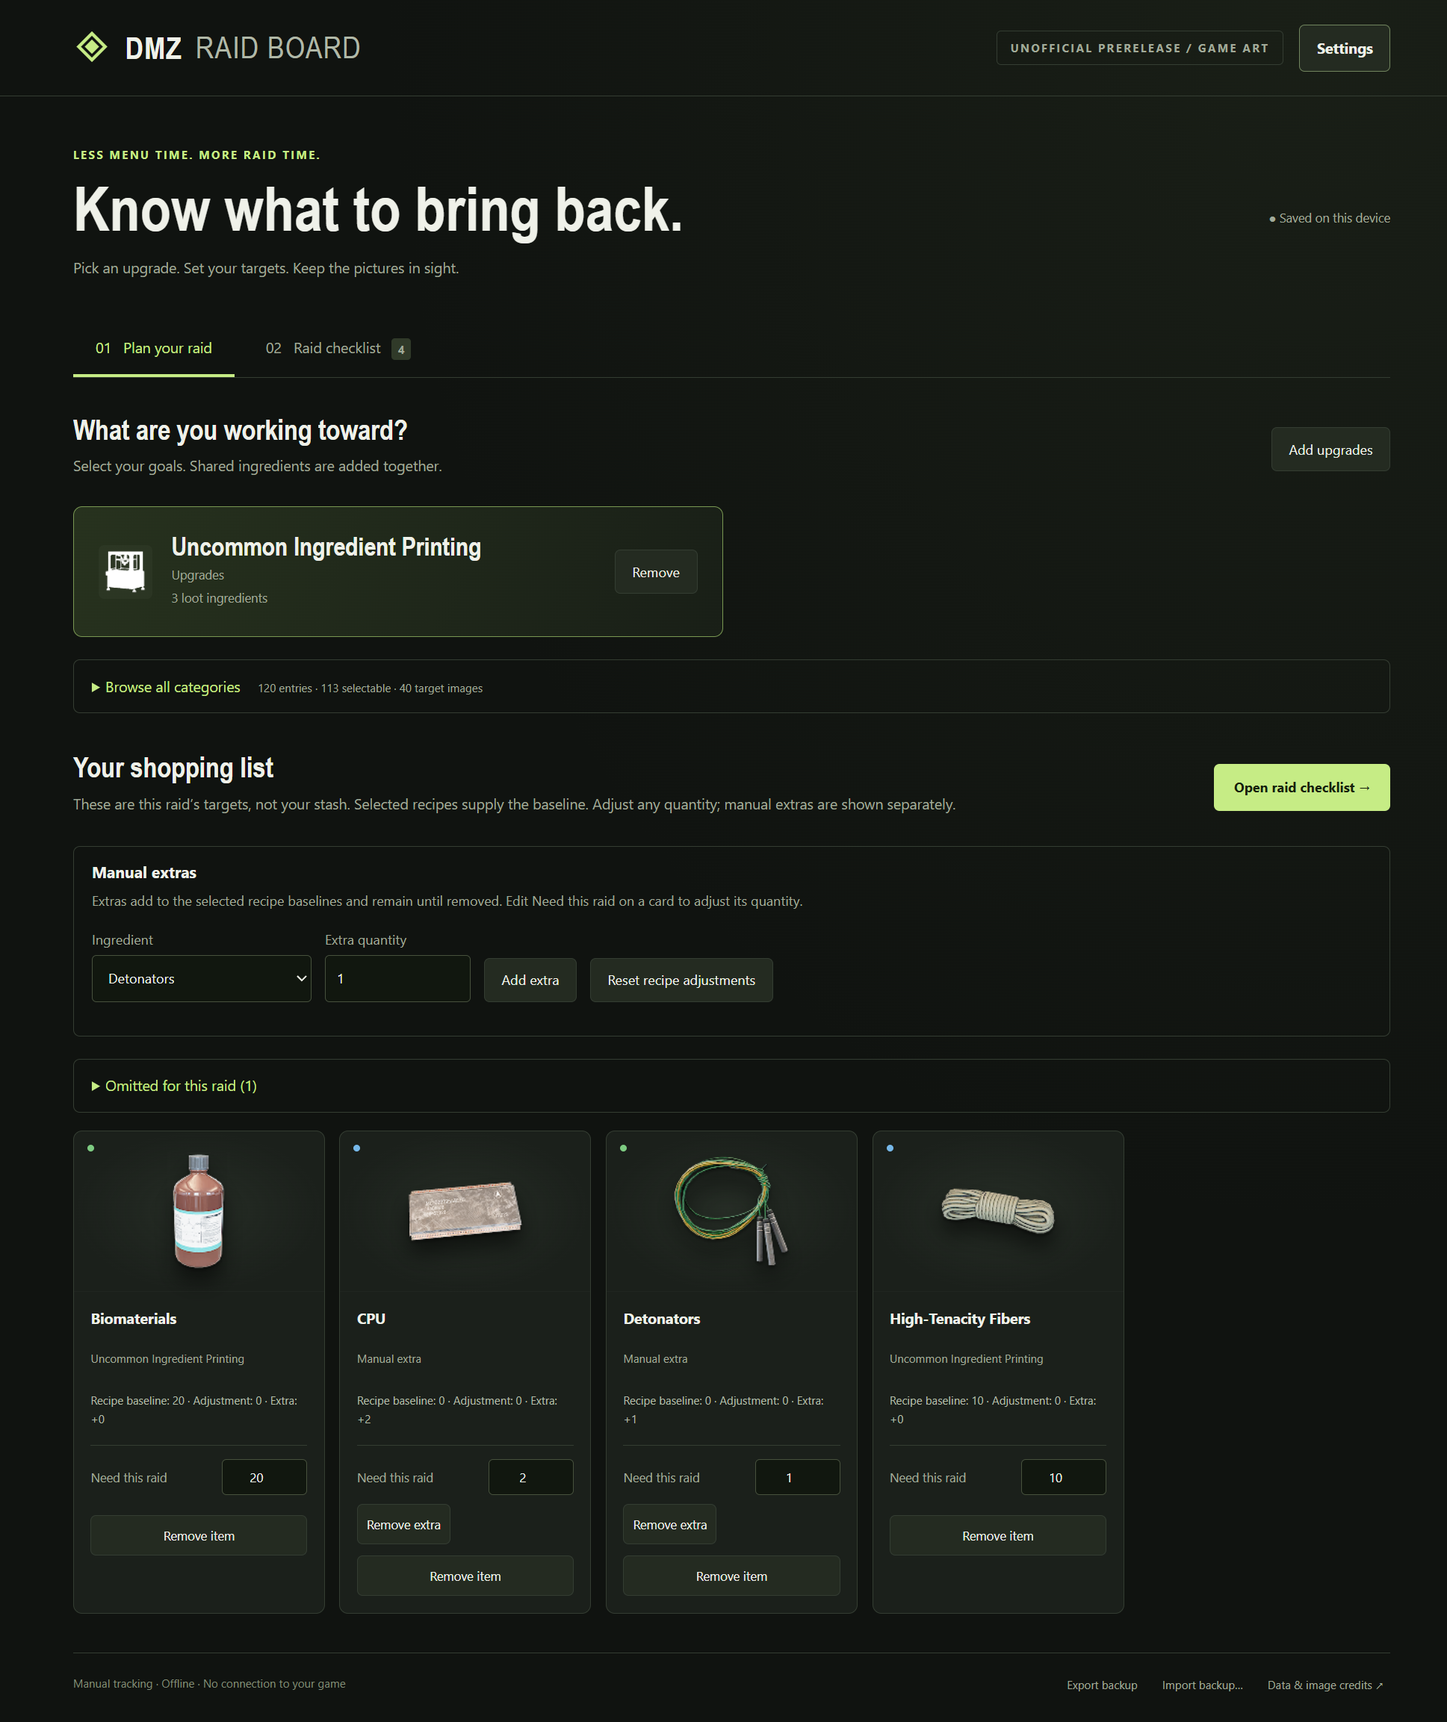
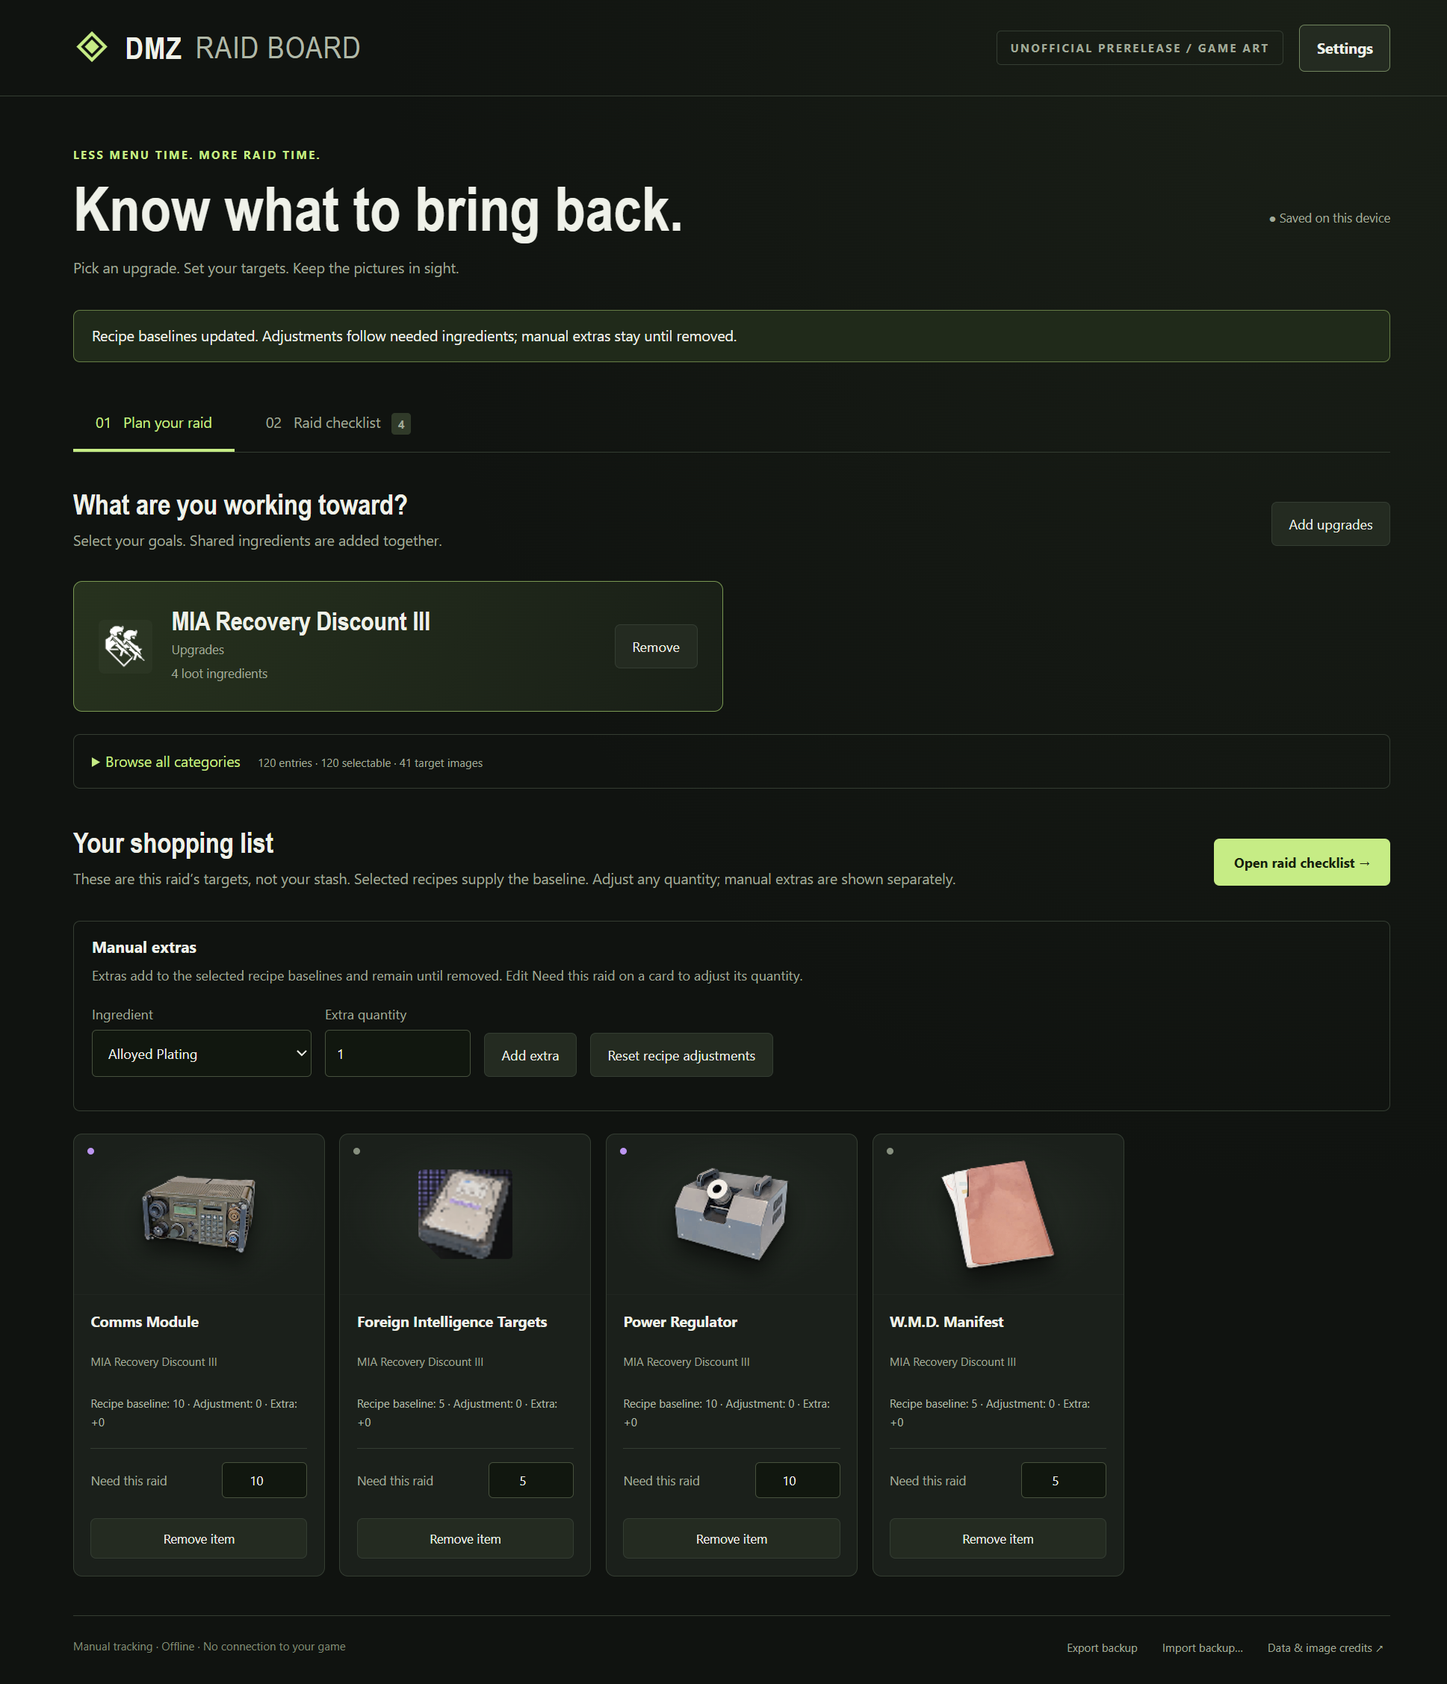
Confirm recipe requirements and add Foreign Intelligence artwork for 0.1.8

diff --git a/src/renderer/index.html b/src/renderer/index.html
@@ -18,7 +18,7 @@
    <div id="goalEmpty" class="emptyGoals">Choose an upgrade to start.</div>
    <div class="upgrades" id="upgrades"></div>
    <details id="browse" class="browse"><summary>Browse all categories <span class="coverage" id="coverage"></span></summary>
-    <p>Catalog compared <time datetime="2026-10-25">25 Oct 2026</time>; owner cards updated 26 Oct 2026. Item requirements are community reported; Owner-verified entries show their individual dates. Unconfirmed recipes cannot be selected. Image coverage is separate; missing images are labeled.</p>
+    <p>Catalog compared <time datetime="2026-10-25">25 Oct 2026</time>; owner and selected web references updated 29 Oct 2026. Item requirements are community reported; Owner-verified entries show their individual dates. Unconfirmed recipes cannot be selected. Image coverage is separate; missing images are labeled.</p>
     <div class="filters"><label>Category <select id="category" aria-label="Category"></select></label><label class="search">Find a recipe or ingredient <input id="search" type="search" placeholder="Search this category" aria-label="Find a recipe or ingredient"></label></div>
     <p id="catalogStatus" class="micro"></p><div id="catalogList" class="catalogList"></div>
    </details>
@@ -45,7 +45,7 @@
    <section aria-labelledby="clearHeading"><h3 id="clearHeading">Fresh list</h3><p>Clear all goals, extras and raid progress. A recovery copy is saved first; your theme is preserved.</p><div class="settingsActions"><button id="settingsClear" class="secondary">Clear entire list</button><button id="settingsRestoreClear" class="secondary" disabled>Restore cleared list</button></div></section>
    <input id="importFile" type="file" accept=".json,application/json" hidden>
   </dialog>
-  <dialog id="sources" aria-labelledby="sourcesHeading"><button id="closeSources" class="secondary">Close ×</button><h2 id="sourcesHeading">About this prototype</h2><p>The original two-upgrade picture-first sample is preserved. The catalog includes the 95 recipes in two compared public references and 25 reported upgrade tiers; full in-game completeness is not claimed. Requirements were compared on 25 Oct 2026; check your current in-game card before planning.</p><p id="sourceCoverage"></p><p>Seven entries remain disabled for unresolved requirements: Radiation Blockers, DDOS, Stash Item IV, Stash Weapon III, MIA II–IV and Vendor I–II. Permanent tiers count once; one tier per family can be planned. Earlier tiers must already be owned. Only explicitly selected ingredient printing offsets matching outputs; no automatic recursive expansion or unlock is assumed.</p><p>Artwork is optional and is never downloaded by the app. The private starter supplied CPU, Detonators, Nylon Cloth, Power Regulator and Reactive Metals images via DMZ Codex. Game art belongs to Activision/respective rights holders; no public redistribution license is asserted. The source omits the item-image collection; documentation previews may contain third-party game art. Military Composites uses a non-destructive crop of an owner screenshot; Foreign Intelligence Targets picture remains pending. Missing pictures use neutral labeled placeholders.</p><div class="sourceRefs"><strong>Source references (copy into your browser)</strong><p>https://dmzcodex.com/upgrades/<br>https://codcentral.net/blog/mw4-dmz-3d-printer-recipes/</p></div><p>DMZHub and DMZTracker were compared for category scope only; their collections were not copied. See CATALOG.md in the source project for provenance. This app is unofficial and not affiliated with or endorsed by Activision, Infinity Ward or DMZ Codex. Artwork remains outside the MIT code license; attribution does not establish permission or grant downstream reuse rights. See the bundled THIRD-PARTY-ARTWORK.md and ARTWORK-SOURCES.json.</p></dialog>
+  <dialog id="sources" aria-labelledby="sourcesHeading"><button id="closeSources" class="secondary">Close ×</button><h2 id="sourcesHeading">About this prototype</h2><p>The original two-upgrade picture-first sample is preserved. The catalog includes the 95 recipes in two compared public references and 25 reported upgrade tiers; full in-game completeness is not claimed. Requirements were compared on 25 Oct 2026; check your current in-game card before planning.</p><p id="sourceCoverage"></p><p>Entries still disabled for unresolved requirements: <span id="unconfirmedList"></span>. Community-reported selectable recipes are labeled and remain unconfirmed in game. Permanent tiers count once; one tier per family can be planned. Earlier tiers must already be owned. Only explicitly selected ingredient printing offsets matching outputs; no automatic recursive expansion or unlock is assumed.</p><p>Artwork is optional and is never downloaded by the app. The private starter supplied CPU, Detonators, Nylon Cloth, Power Regulator and Reactive Metals images via DMZ Codex. Game art belongs to Activision/respective rights holders; no public redistribution license is asserted. The source omits the item-image collection; documentation previews may contain third-party game art. Military Composites uses a non-destructive crop of an owner screenshot; Foreign Intelligence Targets also uses an icon-only crop of an owner gameplay screenshot. Missing pictures use neutral labeled placeholders.</p><div class="sourceRefs"><strong>Source references (copy into your browser)</strong><p>https://dmzcodex.com/upgrades/<br>https://codcentral.net/blog/mw4-dmz-3d-printer-recipes/</p></div><p>DMZHub and DMZTracker were compared for category scope only; their collections were not copied. See CATALOG.md in the source project for provenance. This app is unofficial and not affiliated with or endorsed by Activision, Infinity Ward or DMZ Codex. Artwork remains outside the MIT code license; attribution does not establish permission or grant downstream reuse rights. See the bundled THIRD-PARTY-ARTWORK.md and ARTWORK-SOURCES.json.</p></dialog>
   <dialog id="confirmDialog" aria-labelledby="confirmHeading"><h2 id="confirmHeading"></h2><p id="confirmBody"></p><div class="dialogActions"><button id="cancelAction" class="secondary" autofocus>Cancel</button><button id="confirmAction" class="primary">Confirm</button></div></dialog>
  </main>
  <script type="module" src="app.mjs"></script>

diff --git a/src/renderer/extras.css b/src/renderer/extras.css
@@ -34,3 +34,8 @@ progress{height:7px;border:0;flex:1;background:#30372a;min-width:70px;border-rad
    A modest 2x presentation excludes all text, counts, other items and the corner badge. */
 .art .military-composites-screenshot{width:100px;height:74px}
 .art .military-composites-screenshot img{position:absolute;display:block;width:1330px;height:1320px;max-width:none;max-height:none;left:-168px;top:-1132px;object-fit:fill;filter:none}
+
+/* Owner source remains unchanged762x701; show only its Foreign Intelligence notebook.
+   x98,y418,width42,height40, presented at a modest2x; no text/counts/other rows. */
+.art .foreign-intelligence-targets-screenshot{width:84px;height:80px;clip-path:polygon(0 0,100% 0,100% 100%,20px 100%,0 calc(100% - 20px))}
+.art .foreign-intelligence-targets-screenshot img{position:absolute;display:block;width:1524px;height:1402px;max-width:none;max-height:none;left:-196px;top:-836px;object-fit:fill;filter:none}

diff --git a/README.md b/README.md
@@ -6,7 +6,7 @@ This is an unofficial community prototype, not affiliated with Activision. The r
 
 ## Desktop downloads
 
-The artwork-inclusive prerelease contains third-party game imagery attributed to Activision/respective rights holders and sourced via DMZ Codex, plus an owner-provided gameplay screenshot. No affirmative reuse or redistribution license was established, and the app grants no downstream artwork rights. An artwork-free build remains available from source with `npm run package:public`. Extract the entire Windows x64 artwork-inclusive ZIP into a writable folder and run DMZ Raid Board.exe. Keep its accompanying files. The build is unsigned; no installation is required. Data is stored in the data folder beside the executable. Export/import a backup to move a board between folders.
+The artwork-inclusive prerelease contains third-party game imagery attributed to Activision/respective rights holders and sourced via DMZ Codex, plus owner-provided gameplay screenshots. No affirmative reuse or redistribution license was established, and the app grants no downstream artwork rights. An artwork-free build remains available from source with `npm run package:public`. Extract the entire Windows x64 artwork-inclusive ZIP into a writable folder and run DMZ Raid Board.exe. Keep its accompanying files. The build is unsigned; no installation is required. Data is stored in the data folder beside the executable. Export/import a backup to move a board between folders.
 
 The desktop builds target Windows x64 portable ZIP, macOS Apple Silicon app ZIP/DMG, and Linux x64 AppImage. The app runs as a desktop application; an external browser is not required. No Intel Mac package is produced for this version.
 
@@ -14,7 +14,7 @@ macOS builds are ad-hoc signed, without Developer ID signing or notarization. Na
 
 ## Artwork-inclusive app preview
 
-![Actual 0.1.6 app in its original theme, showing a synthetic Uncommon Printing plan](docs/app-default.png)
+![Actual app in its default theme, showing synthetic sample selections and counts](docs/app-default.png)
 
 Captured from the actual artwork-inclusive Windows artifact using a separate test profile. Counts are synthetic examples, not owner inventory. No desktop, account details, local paths or private runtime data are shown. Game artwork in this preview is third-party material; the notice above applies.
 
@@ -74,3 +74,16 @@ See [native packaging notes](PLATFORM-CANDIDATES.md) for automated checks, per-u
 ## 0.1.7 goal summary and artwork
 
 The goal summary contains selected goals only, with explicit Remove and Add upgrades controls. Manual extras stay visible. Omitted targets have a separate counted disclosure, collapsed by default. Version-2 board and backup semantics are unchanged. Military Composites now uses an unchanged owner screenshot with an icon-only CSS crop; surrounding recipe text and owned counts are excluded from display. See docs/local-0.1.7.md. The desktop prerelease targets Windows x64, Apple Silicon macOS and Linux x86_64. Back up before moving to a new portable folder.
+
+## 0.1.8 recipe update
+
+Vendor I is owner-confirmed and selectable. Four later upgrade tiers are selectable as explicitly community-reported item lists after dated web cross-checks; they are not confirmed in game. See the latest CATALOG.md section. DDOS and Radiation Blockers are now owner-confirmed too; all 120 catalog entries are selectable. Selectable does not mean every entry is owner-confirmed. Existing backups, themes, counts, omissions and selection behavior are unchanged. Export a backup before moving to a new portable folder. The desktop prerelease targets Windows x64, Apple Silicon and Linux x86_64.
+
+The approved candidate 2 is preserved. Publication builds retain its requirements and behavior; private owned-inventory observations are excluded from source metadata. Export a backup before updating.
+
+
+## 0.1.8 candidate3 - Foreign Intelligence Targets
+
+The owner-supplied MIA Recovery III screenshot is preserved unchanged and displayed through an icon-only CSS crop (x98,y418,width42,height40 at2x, with a small bottom-left presentation mask to exclude an adjacent rarity-marker fragment). Surrounding item rows, labels and owned counts are excluded from the displayed picture. Existing MIA III requirements remain W.M.D. Manifest5, Foreign Intelligence Targets5, Power Regulator10 and Comms Module10. No new image was downloaded from a website or generated. Offline image inventory is130 files; all41 current loot targets have mapped local art. All120 existing recipe/output cards have mapped image files, some shared between tiers; file presence is separate from exhaustive visual verification or full-game catalog completeness.
+
+Confidence remains9 owner-confirmed and111 web-reported entries;120 selectable does not mean120 owner-confirmed. Community reference tiers BankVII and Dog Tag CaseIII-IV are absent from this catalog and are not added in this image-only batch. Publication is handled separately from this catalog snapshot. All-platform builds must carry the same130-image payload; the earlier129-image public seed alone is insufficient.

diff --git a/CATALOG.md b/CATALOG.md
@@ -58,3 +58,22 @@ The new evidence makes MIA III selectable. The other four entries already had ma
 ## Local artwork update — 2026-10-27
 
 Military Composites now uses the owner-saved Epic Ingredient Printing screenshot, retained byte-identically and displayed through an icon-only CSS crop. Its requirement remains 5 in Epic Printing; the displayed owned counts are not requirements. The incorrect gray reference is retained unchanged but unused. This restores 40/41 target-image coverage; Foreign Intelligence Targets remains pending. Offline resource inventory is 129 files, including the retained unused reference. File inventory is separate from displayed image coverage.
+
+## 0.1.8 item-requirement review - 2026-10-29
+
+Vendor Item Upgrade I is owner-confirmed: Electronic Sensors 20, CPU 10, Printed Circuit Board 10, Prototype RF Module 2. These are required counts, not owned inventory. The prior reported amounts already matched. Its recorded effect unlocks additional vendor purchase options. No financial requirement is inferred.
+
+Stash Item IV (Gold Skull 5, Alloyed Plating 30, Experimental Compounds 10, Turned Components 30), Stash Weapon III (Gold Bar 5, Stabilized Reagents 30, Volatile Explosives 30, Nano-Structured Alloy 10), MIA IV (Sanctioned Assassination List 5, Ballistic Fabric 30, Nylon Laminate 30, Prototype RF Module 10), and Vendor II (Control Unit 20, High-Tenacity Fibers 10, Nylon Cloth 10, Nano-Structured Alloy 2) are selectable for loot planning with explicit community-reported / not confirmed in game labeling. Missing financial information no longer blocks a complete reported loot-item list. No zero financial requirement, in-game verification, prior-tier ownership or complete unlock knowledge is claimed.
+
+Exact family pages at https://dmzcodex.com/upgrades/ were rechecked on 2026-10-29, with factual item lists cross-checked against https://dmzmap.com/upgrades and https://detonated.com/which-items-should-you-keep-in-dmz-all-fob-upgrades-list/ (both dated 2026-10-25). These sources may share reports; agreement does not establish independent in-game confirmation. Individual records retain exact family URLs and check dates. Owner-confirmed values were preserved.
+
+Candidate 2 supersedes the initial candidate: 120 catalog entries are selectable, none disabled. Owner screenshots confirm DDOS Electronics 30 + Detonators 3 and Radiation Blockers Chemicals 30 + Biomaterials 3, superseding the earlier conflicting reports while retaining historical provenance. The four upper upgrades above remain community-reported, not owner-confirmed. No new images were downloaded; 129-resource inventory and Foreign Intelligence Targets picture gap are unchanged. Version-2 data and backups remain unchanged. The release data uses the approved candidate-2 requirements and confidence labels.
+
+Candidate 2 (2026-10-29) is preserved separately. Release packaging uses the same requirements and removes private owned-inventory observations from evidence metadata. Game-art inventory is unchanged.
+
+
+## 0.1.8 candidate3 - Foreign Intelligence Targets
+
+The owner-supplied MIA Recovery III screenshot is preserved unchanged and displayed through an icon-only CSS crop (x98,y418,width42,height40 at2x, with a small bottom-left presentation mask to exclude an adjacent rarity-marker fragment). Surrounding item rows, labels and owned counts are excluded from the displayed picture. Existing MIA III requirements remain W.M.D. Manifest5, Foreign Intelligence Targets5, Power Regulator10 and Comms Module10. No new image was downloaded from a website or generated. Offline image inventory is130 files; all41 current loot targets have mapped local art. All120 existing recipe/output cards have mapped image files, some shared between tiers; file presence is separate from exhaustive visual verification or full-game catalog completeness.
+
+Confidence remains9 owner-confirmed and111 web-reported entries;120 selectable does not mean120 owner-confirmed. Community reference tiers BankVII and Dog Tag CaseIII-IV are absent from this catalog and are not added in this image-only batch. Publication is handled separately from this catalog snapshot. All-platform builds must carry the same130-image payload; the earlier129-image public seed alone is insufficient.

diff --git a/THIRD-PARTY-ARTWORK.md b/THIRD-PARTY-ARTWORK.md
@@ -4,7 +4,7 @@ DMZ Raid Board is an unofficial community app. It is not affiliated with or endo
 
 Call of Duty, Modern Warfare and DMZ names, trademarks and game artwork belong to Activision and/or their respective rights holders. All rights to those third-party materials are reserved by their owners.
 
-The artwork-inclusive Windows prerelease bundles 129 image files: 127 source-attributed files from [DMZ Codex](https://dmzcodex.com/) item, recipe and upgrade pages, and two owner-supplied gameplay screenshots for Regional Combat Notes and Military Composites. The original screenshots are preserved; CSS presentation shows only the relevant item regions. The earlier incorrect Military Composites reference is retained as an unused source file. Five of the DMZ Codex-attributed files were supplied in the original starter bundle. Some item variants share a source image; file counts are not counts of unique game items or tiers. Foreign Intelligence Targets remains without a verified image.
+The artwork-inclusive Windows prerelease bundles 130 image files: 127 source-attributed files from [DMZ Codex](https://dmzcodex.com/) item, recipe and upgrade pages, and three owner-supplied gameplay screenshots for Regional Combat Notes, Military Composites and Foreign Intelligence Targets. The original screenshots are preserved; CSS presentation shows only the relevant item regions. The earlier incorrect Military Composites reference is retained as an unused source file. Five of the DMZ Codex-attributed files were supplied in the original starter bundle. Some item variants share a source image; file counts are not counts of unique game items or tiers. All41 current loot-target names have mapped local images; this is not a claim of full game coverage or unique artwork for every upgrade tier.
 
 DMZ Codex is credited as the reference/image source, not as the owner of Activision's game art. See its [About and attribution page](https://dmzcodex.com/about/), [item references](https://dmzcodex.com/items/), [recipes](https://dmzcodex.com/recipes/), and [upgrade references](https://dmzcodex.com/upgrades/). The accompanying ARTWORK-SOURCES.json records each bundled filename, source page/image URL where available, checked date and SHA256. The owner-supplied gameplay screenshots have no claimed third-party source-site URLs.
 
